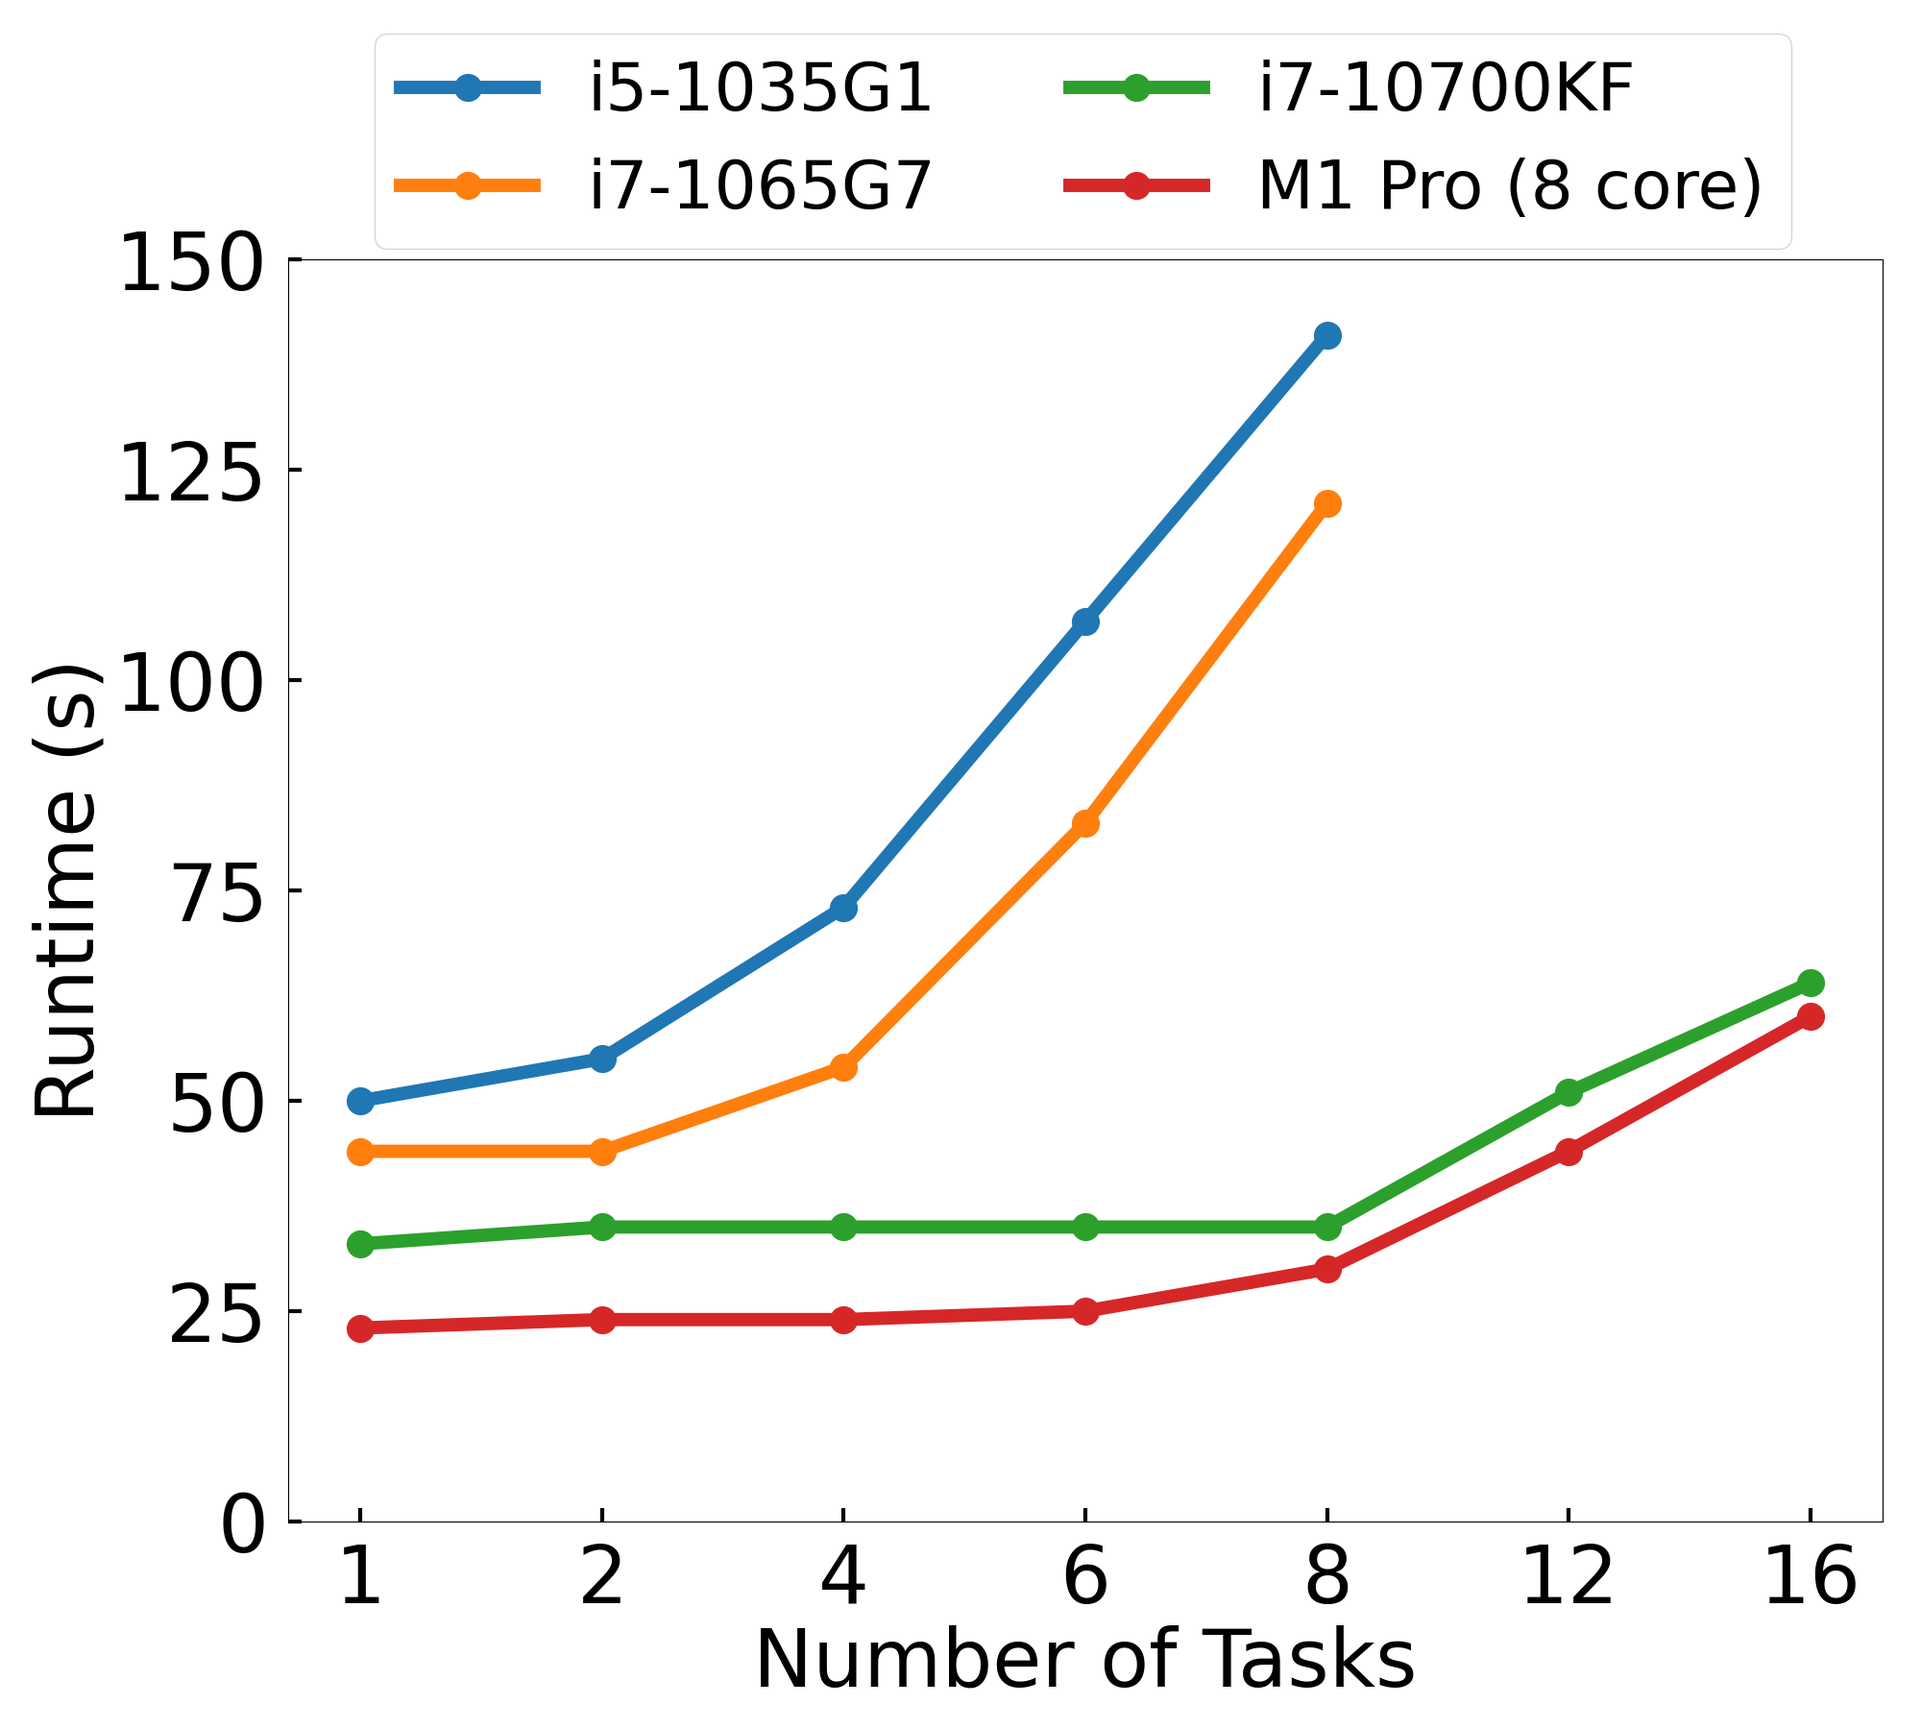
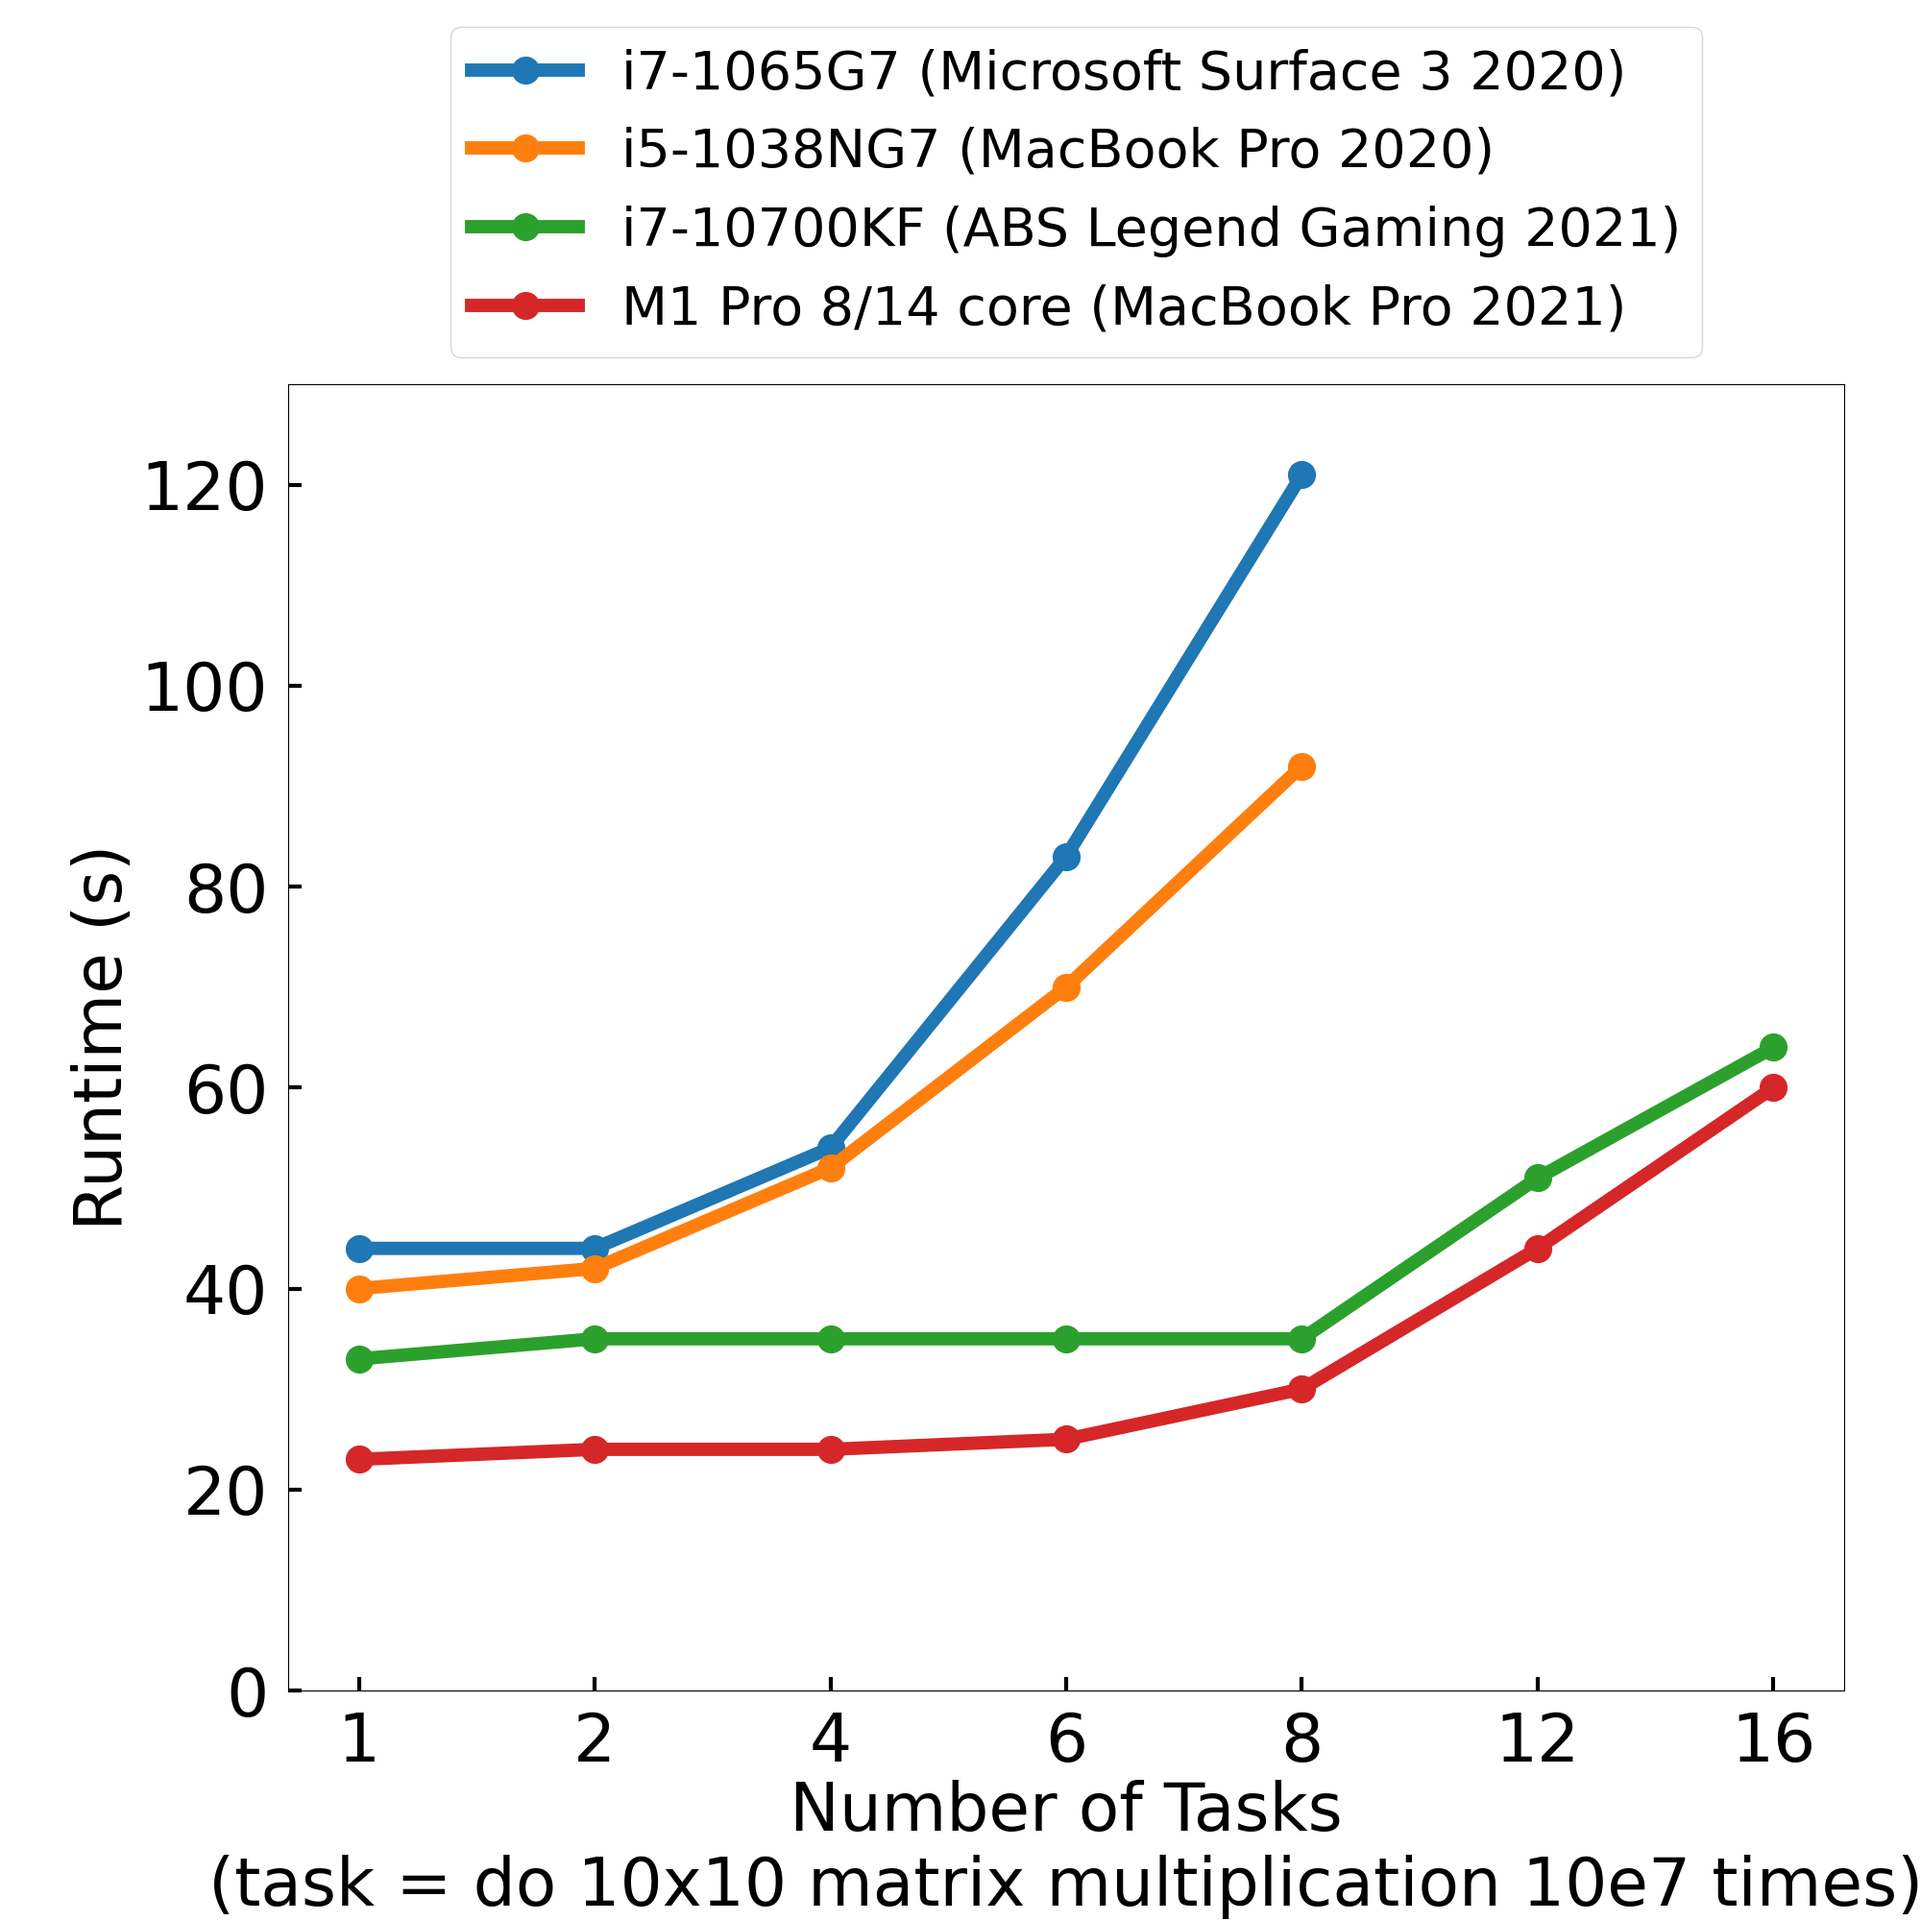
update plot

diff --git a/plot.py b/plot.py
@@ -3,25 +3,25 @@ import numpy as np
 
 def plot():
     X = [1, 2, 4, 6, 8, 12, 16]
-    y1 = [50, 55, 73, 107, 141]        # i5-1035G1
-    y2 = [44, 44, 54, 83,  121]        # i7-1065G7
+    y1 = [40, 42, 52, 70, 92]          # i5-1038NG7
+    y2 = [44, 44, 54, 83, 121]         # i7-1065G7
     y3 = [33, 35, 35, 35, 35, 51, 64]  # i7-10700KF
     y4 = [23, 24, 24, 25, 30, 44, 60]  # M1 Pro (8 core)
 
-    plt.rcParams['font.size'] = 60
+    plt.rcParams['font.size'] = 50
     plt.rcParams['lines.linewidth'] = 10
-    fig, ax = plt.subplots(1, 1, figsize=(20, 18))
-    fig.subplots_adjust(left=0.15, right=0.98, top=0.85, bottom=0.12)
-    ax.plot(np.arange(len(y1)), y1, marker='o', markersize=20, label='i5-1035G1')
-    ax.plot(np.arange(len(y2)), y2, marker='o', markersize=20, label='i7-1065G7')
-    ax.plot(np.arange(len(y3)), y3, marker='o', markersize=20, label='i7-10700KF')
-    ax.plot(np.arange(len(y4)), y4, marker='o', markersize=20, label='M1 Pro (8 core)')
-    fig.legend(ncol=2, fontsize=50, bbox_to_anchor=(0.95, 1))
+    fig, ax = plt.subplots(1, 1, figsize=(20, 20))
+    fig.subplots_adjust(left=0.15, right=0.96, top=0.80, bottom=0.12)
+    ax.plot(np.arange(len(y2)), y2, marker='o', markersize=20, label='i7-1065G7 (Microsoft Surface 3 2020)')
+    ax.plot(np.arange(len(y1)), y1, marker='o', markersize=20, label='i5-1038NG7 (MacBook Pro 2020)')
+    ax.plot(np.arange(len(y3)), y3, marker='o', markersize=20, label='i7-10700KF (ABS Legend Gaming 2021)')
+    ax.plot(np.arange(len(y4)), y4, marker='o', markersize=20, label='M1 Pro 8/14 core (MacBook Pro 2021)')
+    fig.legend(ncol=1, fontsize=40, bbox_to_anchor=(0.90, 1))
     ax.set_xticks(np.arange(len(X)))
     ax.set_xticklabels([str(x) for x in X])
-    ax.set_xlabel('Number of Tasks')
+    ax.set_xlabel('Number of Tasks\n(task = do 10x10 matrix multiplication 10e7 times)')
     ax.set_ylabel('Runtime (s)')
-    ax.set_ylim([0, 150])
+    ax.set_ylim([0, 130])
     ax.tick_params(axis='x', direction='in', length=10, width=3, pad=15)
     ax.tick_params(axis='y', direction='in', length=10, width=3, pad=15)
     fig.savefig('cpu_perf.png')
